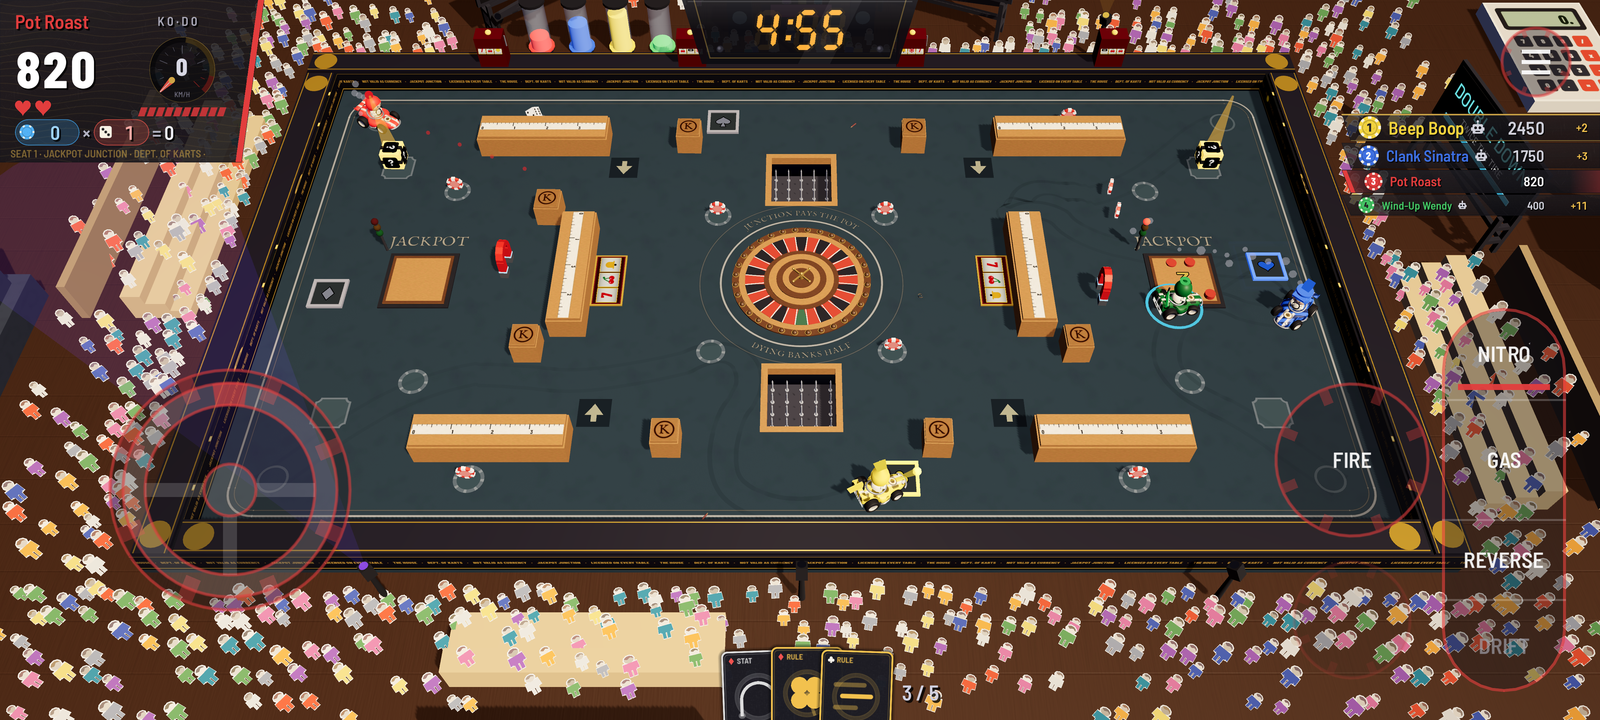
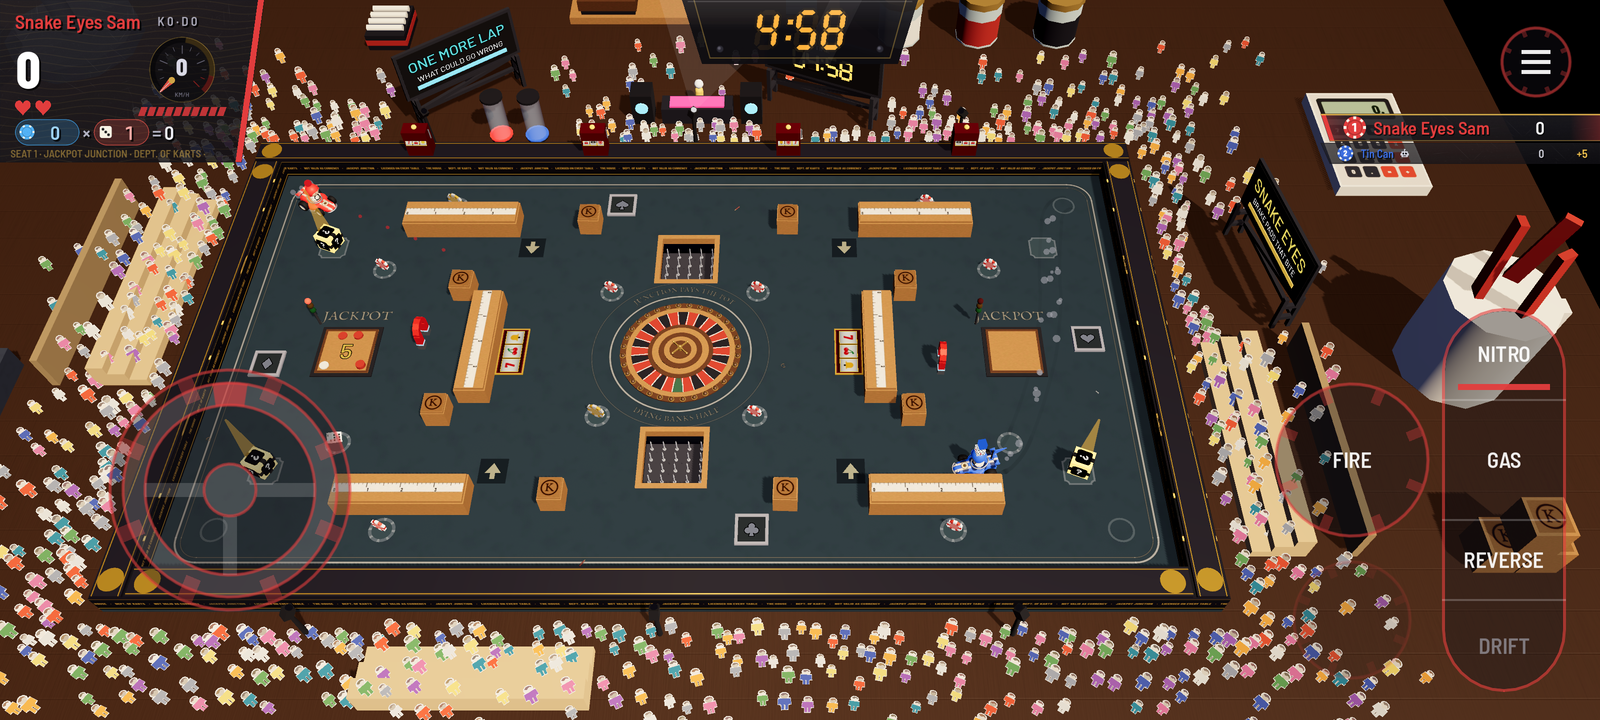
Retake the README's shots with the closer camera, and rename Crossfire XL
Regenerated all five README screenshots through tools/screenshots, now with the
camera sitting closer so the karts read. The XL map once called Crossfire XL is Toy
Box now, in The Playroom rather than The Yard, so its shot is renamed toy-box.png and
its words rewritten for the molded-playset room; the kart dialog shot poses the crown
on its hook again, on a fixed seat name, so it matches its description.

Claude-Session: https://claude.ai/code/session_013upvdFFneUWVMPbwkBeRwE

diff --git a/README.md b/README.md
@@ -17,15 +17,15 @@ under [Documentation](#documentation).
 
 *The invitation that brings you to the tables, the first time you start the game.*
 
-Three arenas, three rooms to play them in, and an XL version of each with room to spare.
+Three arenas and a bigger XL one of each, every one in a room of its own.
 
 ![A dark card room with a green baize arena on the table in the middle of it, the only lit thing in the room. A roulette wheel of red and black pockets is let into the baize at the center, with low wooden walls round it, stacks of red chips against them and a slot machine on each of the inner walls, its reels showing sevens. Neon signs, BET THE FARM and SNAKE EYES, hang over a crowd picked out in pink, and the match clock glows orange above the far edge, FIRST TO 3000 on a tag hung under it. Three players share the screen, a corner each: the first's dashboard is in the top left, in red, the second's in the top right, in blue, and the third's in the bottom left, in yellow, each with their drive hint beside it, the keyboard's and two gamepads'; the first player's hand of jokers is tucked small along the top beside their corner](docs/screenshots/the-vault.png)
 
 *The Vault, After Hours, three players at one screen.*
 
-![A concrete yard in late afternoon light seen from high above, with a far bigger arena marked out on it than the usual map: two long stepped walls of pale blocks curve toward each other across it, a pit edged in black and yellow hazard stripes sits in each of their bends, and a disc bordered in the same stripes lies in the open middle, a slot machine on the low wall above it and another below, with karts small against all that floor. The crowd fills stepped tribunes on every side, with a truck, stacked drums and a forklift beyond them, and lit hoardings and the match clock along the far edge, FIRST TO 3000 on a tag under it. Beside the clock at the top hangs a slim scrap of paper with a red map pin: the bet the player has pinned in the loyalty program, The Cashier's Cage, 17 of 20 cash-outs along a little road filling in gold. The standings are on the right, and the player's hand of three jokers is along the bottom, each card marked with its suit, with the hand's count beside it, 3 of 5](docs/screenshots/crossfire-xl.png)
+![A far bigger arena than the usual map, seen from high above in the open tray of one of the House's molded plastic playsets: the floor a single printed sticker sheet in petrol teal with its far corner peeled up off the tray, low plum-footed barrier walls around it, a molded roulette for the Junction in the open middle, a trapdoor pit at either end with its ribbed leaves hanging open under a printed hazard stripe, and molded dice and a tipped-over tray of chips on the felt, the karts small against all that floor. Behind the far crowd the playset's lid stands as scenery, a night skyline of the House's strip under a lit marquee. The match clock glows above the far edge, FIRST TO 3000 on a tag under it, and beside it hangs a slim scrap of paper with a red map pin: the bet the player has pinned in the loyalty program, The Cashier's Cage. The standings are on the right, the player's dashboard in the top left, and their hand of three jokers along the bottom, each card marked with its suit](docs/screenshots/toy-box.png)
 
-*Crossfire XL, in The Yard: the same room around a bigger arena, a loyalty program bet pinned by the clock.*
+*Toy Box, in The Playroom: a bigger arena, with a loyalty program bet pinned by the clock.*
 
 ![The Your kart dialog, an old workshop bay in a steel frame with hazard stripes along its foot. Top left a red enamel sign reads YOUR KART, THE GARAGE, BAY 1; a timber rail of keys hangs along the top with the seat's key tag, Tail Light Tim, and a printed BACK plate sits top right. Two pegboards in red frames stand either side with a hook for each part of the kart, a picture of the piece worn hanging on it and its name on masking tape: Flag, Checkered; Hat, Top hat; Trail, Confetti; and Card back, The House's, on the left; Body, Racer; Paint, Racing stripes; Plate, None; and Marks, Plain, on the right, over a big red SHUFFLE push button in a plate of hazard stripes. In the middle the player's blue kart with racing stripes stands on the lift's turntable between its red posts under two green shop lamps, trying on a gold crown, a line of rope running from the Hat hook to it. Along the foot the rack of hats hangs over the bench, 16 of 16 won, None, Cap, Top hat marked ON, the crown picked out in gold, Party, Learner, Dealer's visor, Fedora and more past an arrow](docs/screenshots/your-kart.png)
 
